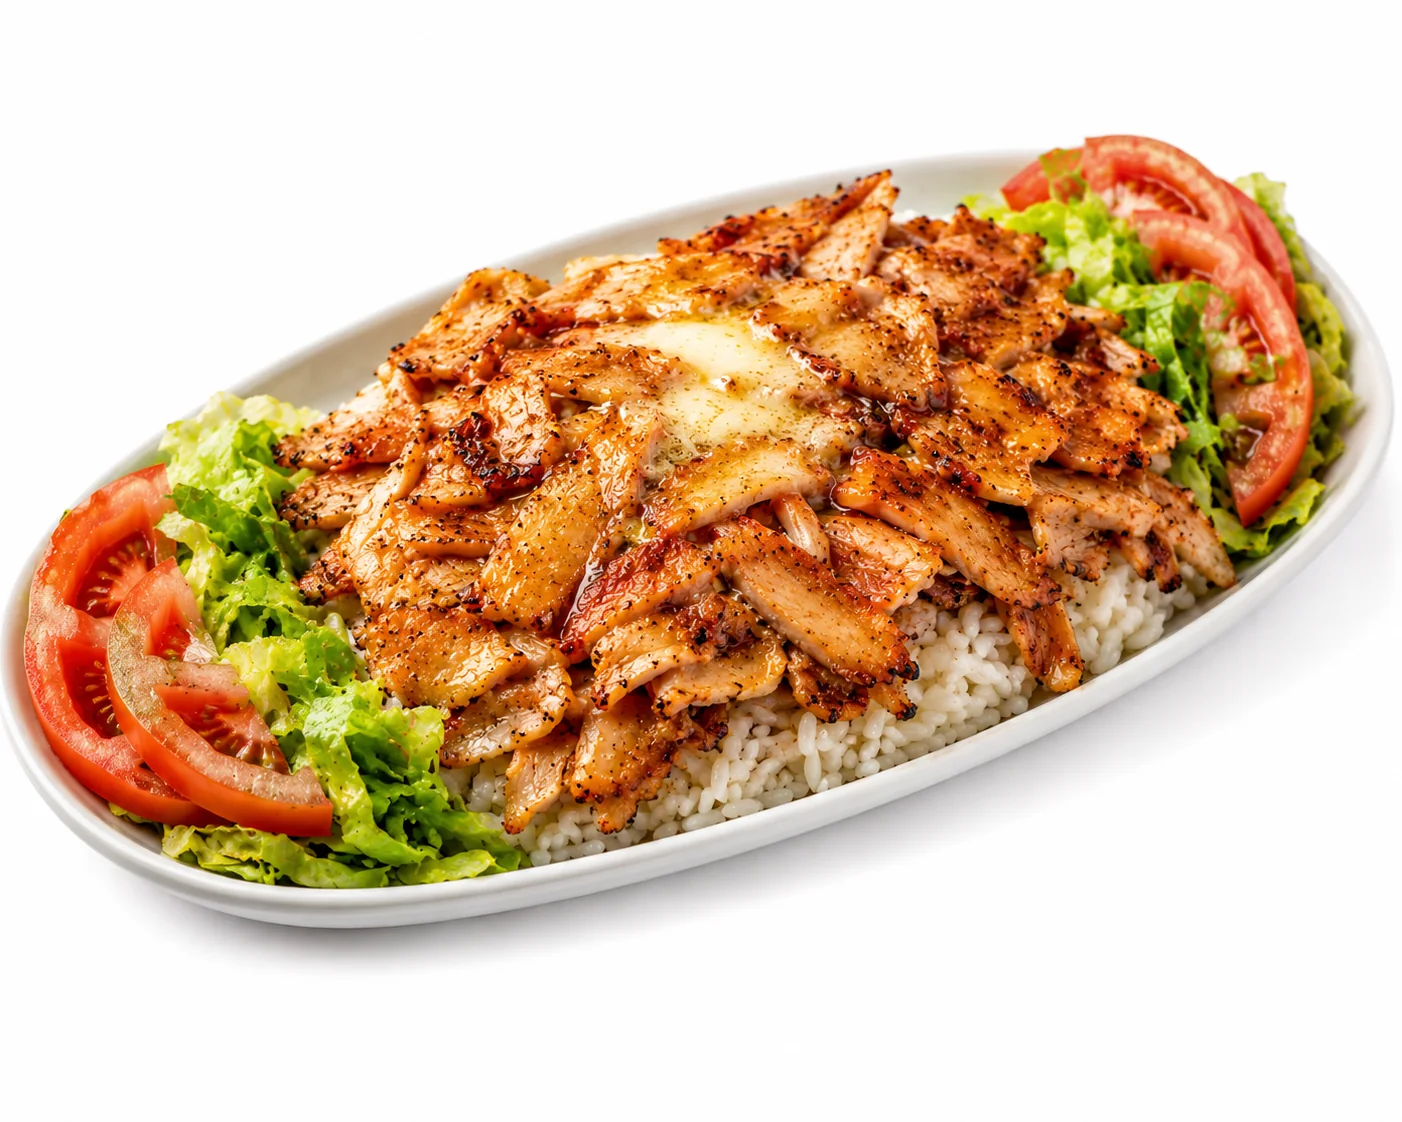
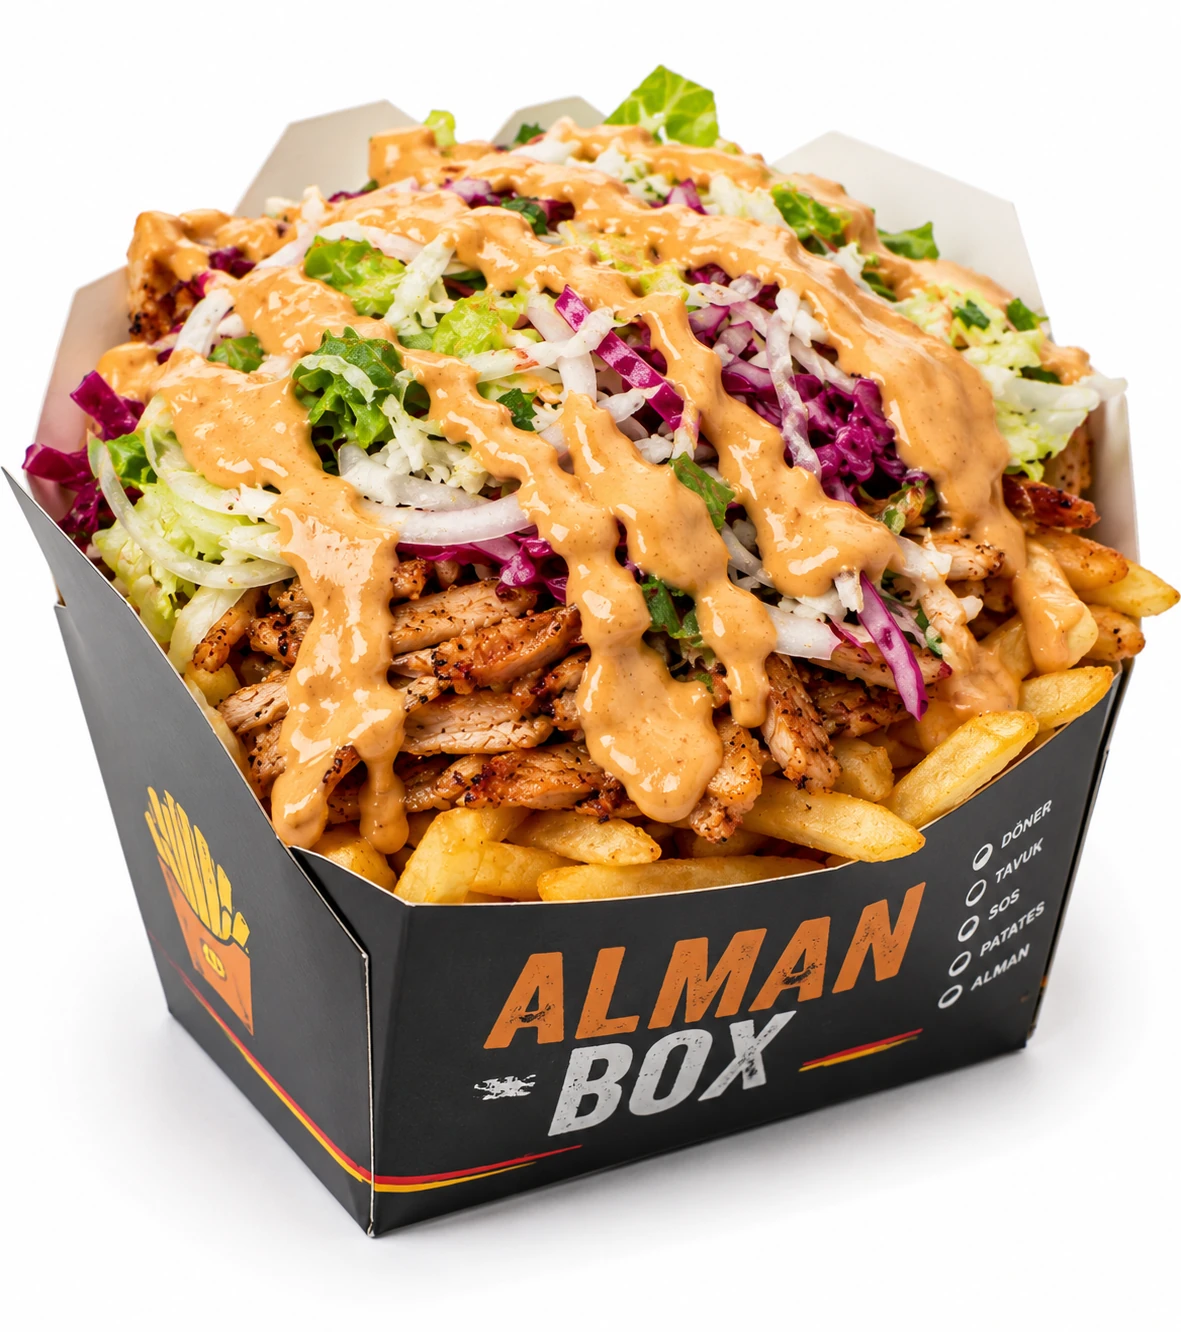
Ürün görselleri ve mobil menü düzeltildi

diff --git a/menu-data.js b/menu-data.js
@@ -1,1 +1,1 @@
-window.MENU_ITEMS=[{"category": "Et Döner", "name": "Et Klasik Dürüm", "price": "300", "gram": "80 gr", "image": "et_durum.png", "desc": "Yaprak et döner, taze garnitür ve özel sos."}, {"category": "Et Döner", "name": "Et İskender", "price": "600", "gram": "", "image": "iskender.png", "desc": "Pide, yaprak et döner, domates sosu, yoğurt ve tereyağı."}, {"category": "Et Döner", "name": "Pilav Üstü Et Döner", "price": "650", "gram": "", "image": "pilav_et.png", "desc": "Tereyağlı pilav üzerinde bol yaprak et döner."}, {"category": "Hatay Usulü", "name": "Hatay Usulü Et Dürüm", "price": "300", "gram": "80 gr", "image": "hatay.png", "desc": "Kızarmış lavaş, et döner, patates, turşu ve Hatay sosu."}, {"category": "Hatay Usulü", "name": "Hatay Usulü Et Zurna", "price": "350", "gram": "90 gr", "image": "hatay.png", "desc": "Uzun lavaşta et döner, patates, turşu ve özel soslar."}, {"category": "Hatay Usulü", "name": "Hatay Usulü Et Bazuka", "price": "400", "gram": "90 gr", "image": "hatay.png", "desc": "45 cm çift lavaşta bol et döner."}, {"category": "Hatay Usulü", "name": "Hatay Usulü Et Acılı Zurna", "price": "350", "gram": "90 gr", "image": "hatay.png", "desc": "Acı sevenler için Hatay soslu et zurna."}, {"category": "Hatay Usulü", "name": "Hatay Usulü Et Kaşarlı Zurna", "price": "400", "gram": "90 gr", "image": "hatay.png", "desc": "Kaşar, et döner, patates, turşu ve özel soslar."}, {"category": "Alman", "name": "Alman Et Dürüm", "price": "450", "gram": "90 gr", "image": "hero.png", "desc": "Et döner, Alman sosları, lahana ve yeşillik."}, {"category": "Alman", "name": "Alman Et Gobit", "price": "450", "gram": "90 gr", "image": "gobit.png", "desc": "Gobit ekmeğinde et döner ve Alman garnitürleri."}, {"category": "Alman", "name": "Alman Et Box", "price": "550", "gram": "", "image": "alman_box.png", "desc": "Patates, salata, et döner ve özel Alman sosu."}, {"category": "Alman", "name": "Alman Et Special Porsiyon", "price": "600", "gram": "", "image": "pilav_et.png", "desc": "Bol et döner, garnitür ve Alman sosları."}, {"category": "Tavuk Döner", "name": "Klasik Tavuk Dürüm", "price": "250", "gram": "90 gr", "image": "hero.png", "desc": "Tavuk döner, marul, domates, soğan ve salça sosu."}, {"category": "Tavuk Döner", "name": "Hatay Usulü Tavuk Dürüm", "price": "250", "gram": "", "image": "hatay.png", "desc": "Patates, turşu, sarımsaklı mayonez ve Hatay sosu."}, {"category": "Tavuk Döner", "name": "Hatay Usulü Tavuk Zurna", "price": "300", "gram": "", "image": "hatay.png", "desc": "Uzun lavaşta Hatay usulü tavuk döner."}, {"category": "Tavuk Döner", "name": "Hatay Usulü Tavuk Kaşarlı", "price": "350", "gram": "", "image": "hatay.png", "desc": "Kaşar, tavuk döner, patates, turşu ve özel soslar."}, {"category": "Alman", "name": "Alman Tavuk Gobit", "price": "400", "gram": "", "image": "gobit.png", "desc": "Tavuk döner, Alman sosları ve salata."}, {"category": "Alman", "name": "Alman Tavuk Special", "price": "500", "gram": "", "image": "tavuk_pilav.png", "desc": "Tavuk döner, pilav ve özel garnitürler."}, {"category": "Diğer", "name": "Porsiyon Köfte", "price": "500", "gram": "", "image": "kofte.png", "desc": "5 adet köfte, pilav, marul, mor lahana ve soğan."}];
+window.MENU_ITEMS=[{"category":"Et Döner","name":"Et Klasik Dürüm","price":"300","gram":"80 gr","image":"et_durum_yaprak.webp","desc":"Yaprak et döner, taze garnitür ve özel sos."},{"category":"Et Döner","name":"Et İskender","price":"600","gram":"","image":"et_iskender_yaprak.webp","desc":"Pide, yaprak et döner, domates sosu, yoğurt ve tereyağı."},{"category":"Et Döner","name":"Pilav Üstü Et Döner","price":"650","gram":"","image":"pilav_ustu_et_yaprak.webp","desc":"Tereyağlı pilav üzerinde bol yaprak et döner."},{"category":"Hatay Usulü","name":"Hatay Usulü Et Dürüm","price":"300","gram":"80 gr","image":"et_durum_yaprak.webp","desc":"Kızarmış lavaş, et döner, patates, turşu ve Hatay sosu."},{"category":"Hatay Usulü","name":"Hatay Usulü Et Zurna","price":"350","gram":"90 gr","image":"et_durum_yaprak.webp","desc":"Uzun lavaşta et döner, patates, turşu ve özel soslar."},{"category":"Hatay Usulü","name":"Hatay Usulü Et Bazuka","price":"400","gram":"90 gr","image":"et_durum_yaprak.webp","desc":"45 cm çift lavaşta bol et döner."},{"category":"Hatay Usulü","name":"Hatay Usulü Et Acılı Zurna","price":"350","gram":"90 gr","image":"et_durum_yaprak.webp","desc":"Acı sevenler için Hatay soslu et zurna."},{"category":"Hatay Usulü","name":"Hatay Usulü Et Kaşarlı Zurna","price":"400","gram":"90 gr","image":"et_durum_yaprak.webp","desc":"Kaşar, et döner, patates, turşu ve özel soslar."},{"category":"Alman","name":"Alman Et Dürüm","price":"450","gram":"90 gr","image":"et_durum_yaprak.webp","desc":"Et döner, Alman sosları, lahana ve yeşillik."},{"category":"Alman","name":"Alman Et Gobit","price":"450","gram":"90 gr","image":"alman_gobit.webp","desc":"Gobit ekmeğinde et döner ve Alman garnitürleri."},{"category":"Alman","name":"Alman Et Box","price":"550","gram":"","image":"alman_box.webp","desc":"Patates, salata, et döner ve özel Alman sosu."},{"category":"Alman","name":"Alman Et Special Porsiyon","price":"600","gram":"","image":"pilav_ustu_et_yaprak.webp","desc":"Bol et döner, garnitür ve Alman sosları."},{"category":"Tavuk Döner","name":"Klasik Tavuk Dürüm","price":"250","gram":"90 gr","image":"tavuk_klasik_durum.webp","desc":"Tavuk döner, marul, domates, soğan ve salça sosu."},{"category":"Tavuk Döner","name":"Hatay Usulü Tavuk Dürüm","price":"250","gram":"","image":"hatay_durum.webp","desc":"Patates, turşu, sarımsaklı mayonez ve Hatay sosu."},{"category":"Tavuk Döner","name":"Hatay Usulü Tavuk Zurna","price":"300","gram":"","image":"hatay_zurna.webp","desc":"Uzun lavaşta Hatay usulü tavuk döner."},{"category":"Tavuk Döner","name":"Hatay Usulü Tavuk Kaşarlı","price":"350","gram":"","image":"hatay_kasarli.webp","desc":"Kaşar, tavuk döner, patates, turşu ve özel soslar."},{"category":"Alman","name":"Alman Tavuk Gobit","price":"400","gram":"","image":"alman_gobit.webp","desc":"Tavuk döner, Alman sosları ve salata."},{"category":"Alman","name":"Alman Tavuk Special","price":"500","gram":"","image":"tavuk_special.webp","desc":"Tavuk döner, pilav ve özel garnitürler."},{"category":"Diğer","name":"Porsiyon Köfte","price":"500","gram":"","image":"porsiyon_kofte.webp","desc":"5 adet köfte, pilav, marul, mor lahana ve soğan."}];

diff --git a/styles.css b/styles.css
@@ -1,5 +1,5 @@
 
-:root{--bg:#080808;--panel:#111;--gold:#d6aa59;--orange:#ff7a00;--red:#d62832;--text:#fff8ec;--muted:#c9c0b5;--line:rgba(214,170,89,.28)}*{box-sizing:border-box}html{scroll-behavior:smooth}body{margin:0;background:radial-gradient(circle at 15% 0%,rgba(255,122,0,.14),transparent 28%),#080808;color:var(--text);font-family:Arial,sans-serif}a{text-decoration:none;color:inherit}.container{width:min(1180px,calc(100% - 28px));margin:auto}.top{position:sticky;top:0;z-index:20;background:#080808ee;border-bottom:1px solid var(--line)}.nav{min-height:74px;display:flex;align-items:center;justify-content:space-between;gap:18px}.brand{display:flex;align-items:center;gap:12px;font-weight:900}.brand img{width:56px;height:56px;object-fit:contain;border-radius:50%}.links{display:flex;gap:16px;align-items:center}.links a{font-weight:800;color:var(--muted)}.btn{display:inline-flex;padding:13px 18px;border-radius:999px;font-weight:900;background:linear-gradient(135deg,var(--orange),#ffa13f);color:#111}.outline{background:transparent;color:#fff;border:1px solid var(--gold)}.hero{padding:58px 0}.hero-grid{display:grid;grid-template-columns:1.04fr .96fr;gap:34px;align-items:center}.kicker{color:var(--gold);font-weight:900;letter-spacing:.14em;text-transform:uppercase;font-size:13px}h1{font-size:clamp(46px,7vw,82px);line-height:.96;margin:14px 0 18px}.hero p,.lead{color:var(--muted);font-size:18px;line-height:1.65}.hero-actions{display:flex;gap:12px;flex-wrap:wrap;margin-top:24px}.hero-visual{background:#121212;border:1px solid var(--line);border-radius:30px;padding:14px}.hero-visual img{width:100%;border-radius:22px}.section{padding:48px 0}.section-head{display:flex;justify-content:space-between;align-items:end;gap:18px;margin-bottom:22px}.section h2{font-size:36px;margin:0}.grid,.menu-grid{display:grid;grid-template-columns:repeat(3,minmax(0,1fr));gap:16px}.card,.menu-card{background:#141414;border:1px solid var(--line);border-radius:20px;overflow:hidden}.card img,.menu-card img{width:100%;aspect-ratio:4/3;object-fit:cover;background:#fff}.card-body,.menu-content{padding:15px}.card h3,.menu-head h3{margin:0}.card p,.desc{color:var(--muted);font-size:14px;line-height:1.5}.band{background:linear-gradient(135deg,rgba(255,122,0,.12),rgba(214,40,50,.1));border-block:1px solid var(--line)}.features{display:grid;grid-template-columns:repeat(3,1fr);gap:16px}.feature{padding:22px;border:1px solid var(--line);border-radius:18px;background:#111}.feature strong{display:block;font-size:21px;margin-bottom:7px}.story{display:grid;grid-template-columns:1fr 1fr;gap:28px;align-items:center}.story img{width:100%;border-radius:24px;border:1px solid var(--line)}.quote{font-size:24px;line-height:1.5;border-left:4px solid var(--orange);padding-left:18px}.cta{display:flex;justify-content:space-between;align-items:center;gap:20px;background:#121212;border:1px solid var(--line);border-radius:24px;padding:28px}.page-hero{text-align:center;padding:46px 0 22px}.page-hero img{width:min(220px,60vw)}.page-hero h1{font-size:54px}.filters{position:sticky;top:74px;z-index:15;display:flex;gap:8px;overflow:auto;padding:12px 0;background:#080808ee}.filter{white-space:nowrap;border:1px solid #444;background:#171717;color:#fff;padding:10px 14px;border-radius:999px;font-weight:800}.filter.active{background:var(--orange);color:#111}.menu-grid{padding:12px 0 80px}.menu-head{display:flex;justify-content:space-between;gap:10px}.price{color:var(--gold);font-weight:900}.meta{color:var(--orange);font-weight:800;font-size:12px}.order{display:inline-block;margin-top:8px;background:var(--red);padding:9px 12px;border-radius:10px;font-size:13px;font-weight:900}.gallery{columns:3 260px;column-gap:16px}.gallery img{width:100%;margin-bottom:16px;border-radius:18px;border:1px solid var(--line)}.contact-grid{display:grid;grid-template-columns:1fr 1fr;gap:22px}.contact-card{background:#121212;border:1px solid var(--line);border-radius:20px;padding:22px}footer{padding:30px 0 96px;border-top:1px solid #222;color:var(--muted)}.footer-grid{display:grid;grid-template-columns:2fr 1fr 1fr;gap:24px}.mobile-bar{position:fixed;left:10px;right:10px;bottom:10px;z-index:25;display:none;grid-template-columns:repeat(4,1fr);background:#0a0a0af5;border:1px solid var(--line);border-radius:18px;overflow:hidden}.mobile-bar a{padding:12px 8px;text-align:center;font-size:12px;font-weight:900}@media(max-width:860px){.links a:not(.btn){display:none}.hero-grid,.story,.contact-grid{grid-template-columns:1fr}.grid,.menu-grid{grid-template-columns:repeat(2,1fr)}.features{grid-template-columns:1fr}.cta{flex-direction:column;align-items:flex-start}.footer-grid{grid-template-columns:1fr}.mobile-bar{display:grid}}@media(max-width:540px){.grid,.menu-grid{grid-template-columns:1fr}.page-hero h1{font-size:42px}}
+:root{--bg:#080808;--panel:#111;--gold:#d6aa59;--orange:#ff7a00;--red:#d62832;--text:#fff8ec;--muted:#c9c0b5;--line:rgba(214,170,89,.28)}*{box-sizing:border-box}html{scroll-behavior:smooth}body{margin:0;background:radial-gradient(circle at 15% 0%,rgba(255,122,0,.14),transparent 28%),#080808;color:var(--text);font-family:Arial,sans-serif}a{text-decoration:none;color:inherit}.container{width:min(1180px,calc(100% - 28px));margin:auto}.top{position:sticky;top:0;z-index:20;background:#080808ee;border-bottom:1px solid var(--line)}.nav{min-height:74px;display:flex;align-items:center;justify-content:space-between;gap:18px}.brand{display:flex;align-items:center;gap:12px;font-weight:900}.brand img{width:56px;height:56px;object-fit:contain;border-radius:50%}.links{display:flex;gap:16px;align-items:center}.links a{font-weight:800;color:var(--muted)}.btn{display:inline-flex;padding:13px 18px;border-radius:999px;font-weight:900;background:linear-gradient(135deg,var(--orange),#ffa13f);color:#111}.outline{background:transparent;color:#fff;border:1px solid var(--gold)}.hero{padding:58px 0}.hero-grid{display:grid;grid-template-columns:1.04fr .96fr;gap:34px;align-items:center}.kicker{color:var(--gold);font-weight:900;letter-spacing:.14em;text-transform:uppercase;font-size:13px}h1{font-size:clamp(46px,7vw,82px);line-height:.96;margin:14px 0 18px}.hero p,.lead{color:var(--muted);font-size:18px;line-height:1.65}.hero-actions{display:flex;gap:12px;flex-wrap:wrap;margin-top:24px}.hero-visual{background:#121212;border:1px solid var(--line);border-radius:30px;padding:14px}.hero-visual img{width:100%;border-radius:22px}.section{padding:48px 0}.section-head{display:flex;justify-content:space-between;align-items:end;gap:18px;margin-bottom:22px}.section h2{font-size:36px;margin:0}.grid,.menu-grid{display:grid;grid-template-columns:repeat(3,minmax(0,1fr));gap:16px}.card,.menu-card{background:#141414;border:1px solid var(--line);border-radius:20px;overflow:hidden}.card img,.menu-card img{width:100%;aspect-ratio:4/3;object-fit:cover;background:#fff}.card-body,.menu-content{padding:15px}.card h3,.menu-head h3{margin:0}.card p,.desc{color:var(--muted);font-size:14px;line-height:1.5}.band{background:linear-gradient(135deg,rgba(255,122,0,.12),rgba(214,40,50,.1));border-block:1px solid var(--line)}.features{display:grid;grid-template-columns:repeat(3,1fr);gap:16px}.feature{padding:22px;border:1px solid var(--line);border-radius:18px;background:#111}.feature strong{display:block;font-size:21px;margin-bottom:7px}.story{display:grid;grid-template-columns:1fr 1fr;gap:28px;align-items:center}.story img{width:100%;border-radius:24px;border:1px solid var(--line)}.quote{font-size:24px;line-height:1.5;border-left:4px solid var(--orange);padding-left:18px}.cta{display:flex;justify-content:space-between;align-items:center;gap:20px;background:#121212;border:1px solid var(--line);border-radius:24px;padding:28px}.page-hero{text-align:center;padding:46px 0 22px}.page-hero img{width:min(220px,60vw)}.page-hero h1{font-size:54px}.filters{position:sticky;top:74px;z-index:15;display:flex;gap:8px;overflow:auto;padding:12px 0;background:#080808ee}.filter{white-space:nowrap;border:1px solid #444;background:#171717;color:#fff;padding:10px 14px;border-radius:999px;font-weight:800}.filter.active{background:var(--orange);color:#111}.menu-grid{padding:12px 0 80px}.menu-head{display:flex;justify-content:space-between;gap:10px}.price{color:var(--gold);font-weight:900}.meta{color:var(--orange);font-weight:800;font-size:12px}.order{display:inline-block;margin-top:8px;background:var(--red);padding:9px 12px;border-radius:10px;font-size:13px;font-weight:900}.gallery{columns:3 260px;column-gap:16px}.gallery img{width:100%;margin-bottom:16px;border-radius:18px;border:1px solid var(--line)}.contact-grid{display:grid;grid-template-columns:1fr 1fr;gap:22px}.contact-card{background:#121212;border:1px solid var(--line);border-radius:20px;padding:22px}footer{padding:30px 0 96px;border-top:1px solid #222;color:var(--muted)}.footer-grid{display:grid;grid-template-columns:2fr 1fr 1fr;gap:24px}.mobile-bar{position:fixed;left:10px;right:10px;bottom:10px;z-index:25;display:none;grid-template-columns:repeat(4,1fr);background:#0a0a0af5;border:1px solid var(--line);border-radius:18px;overflow:hidden}.mobile-bar a{padding:12px 8px;text-align:center;font-size:12px;font-weight:900}@media(max-width:860px){.filters{position:relative;top:auto}.links a:not(.btn){display:none}.hero-grid,.story,.contact-grid{grid-template-columns:1fr}.grid,.menu-grid{grid-template-columns:repeat(2,1fr)}.features{grid-template-columns:1fr}.cta{flex-direction:column;align-items:flex-start}.footer-grid{grid-template-columns:1fr}.mobile-bar{display:grid}}@media(max-width:540px){.grid,.menu-grid{grid-template-columns:1fr}.page-hero h1{font-size:42px}}
 
 /* SEO final: accessibility and performance refinements */
 img{max-width:100%;height:auto}picture{display:contents}a:focus-visible,button:focus-visible{outline:3px solid var(--gold);outline-offset:3px}.legal{font-size:12px;margin-top:22px}.menu-card[hidden]{display:none}.menu-card h2{margin:0;font-size:18px}address{font-style:normal;color:var(--muted);line-height:1.7}@media(prefers-reduced-motion:reduce){*{scroll-behavior:auto!important;transition:none!important;animation:none!important}}